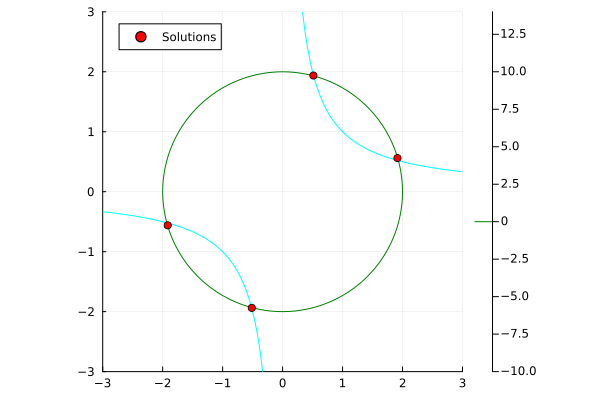
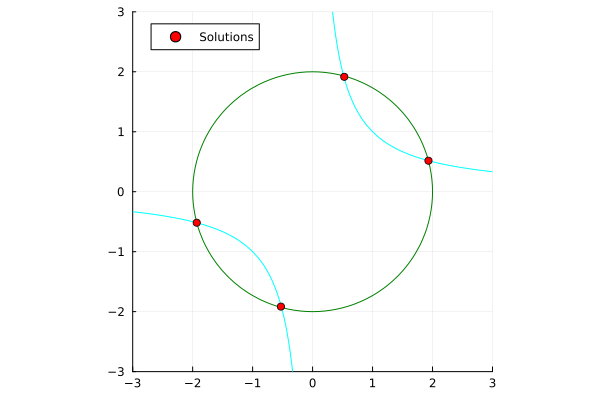
update plot

diff --git a/README.md b/README.md
@@ -9,7 +9,7 @@
 
 - Projective coordinates
 - Parallelization
-- Endgames(?)
+- Extract functions in separate modules(?)
 
 ## Example system
 
@@ -20,6 +20,6 @@ xy - 1 &= 0 \\
 \end{align*}
 $$
 
-Plot of our approximate solutions:
+Plot of the approximate solutions:
 
 ![](solutions.png)
